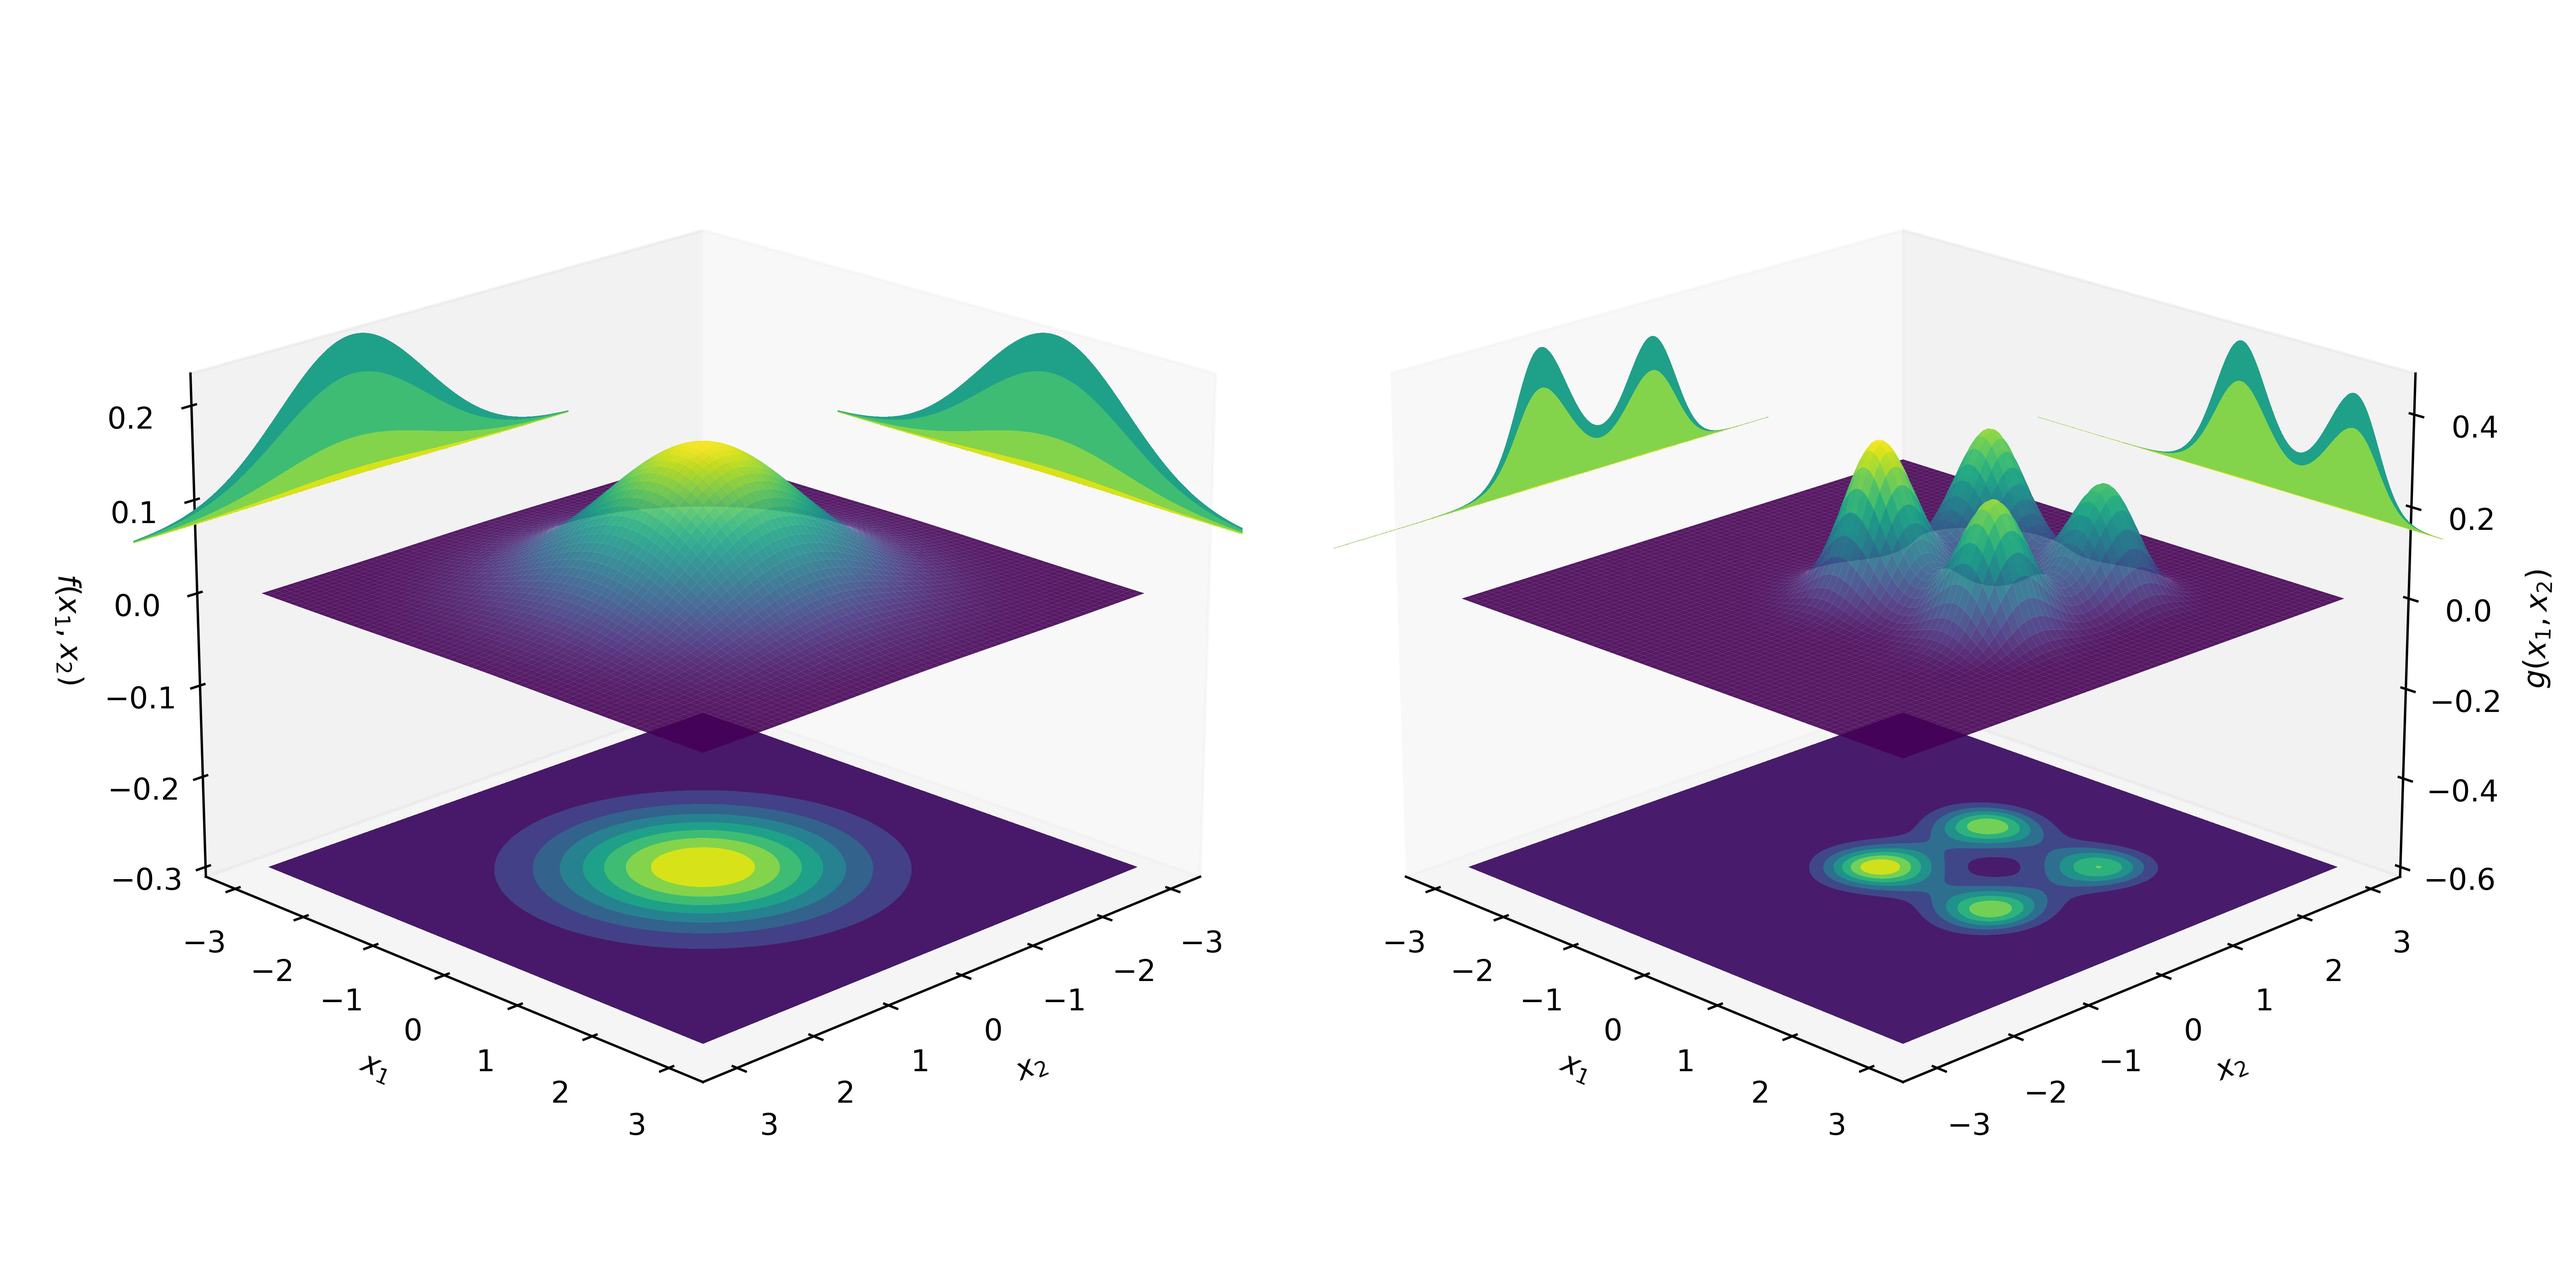
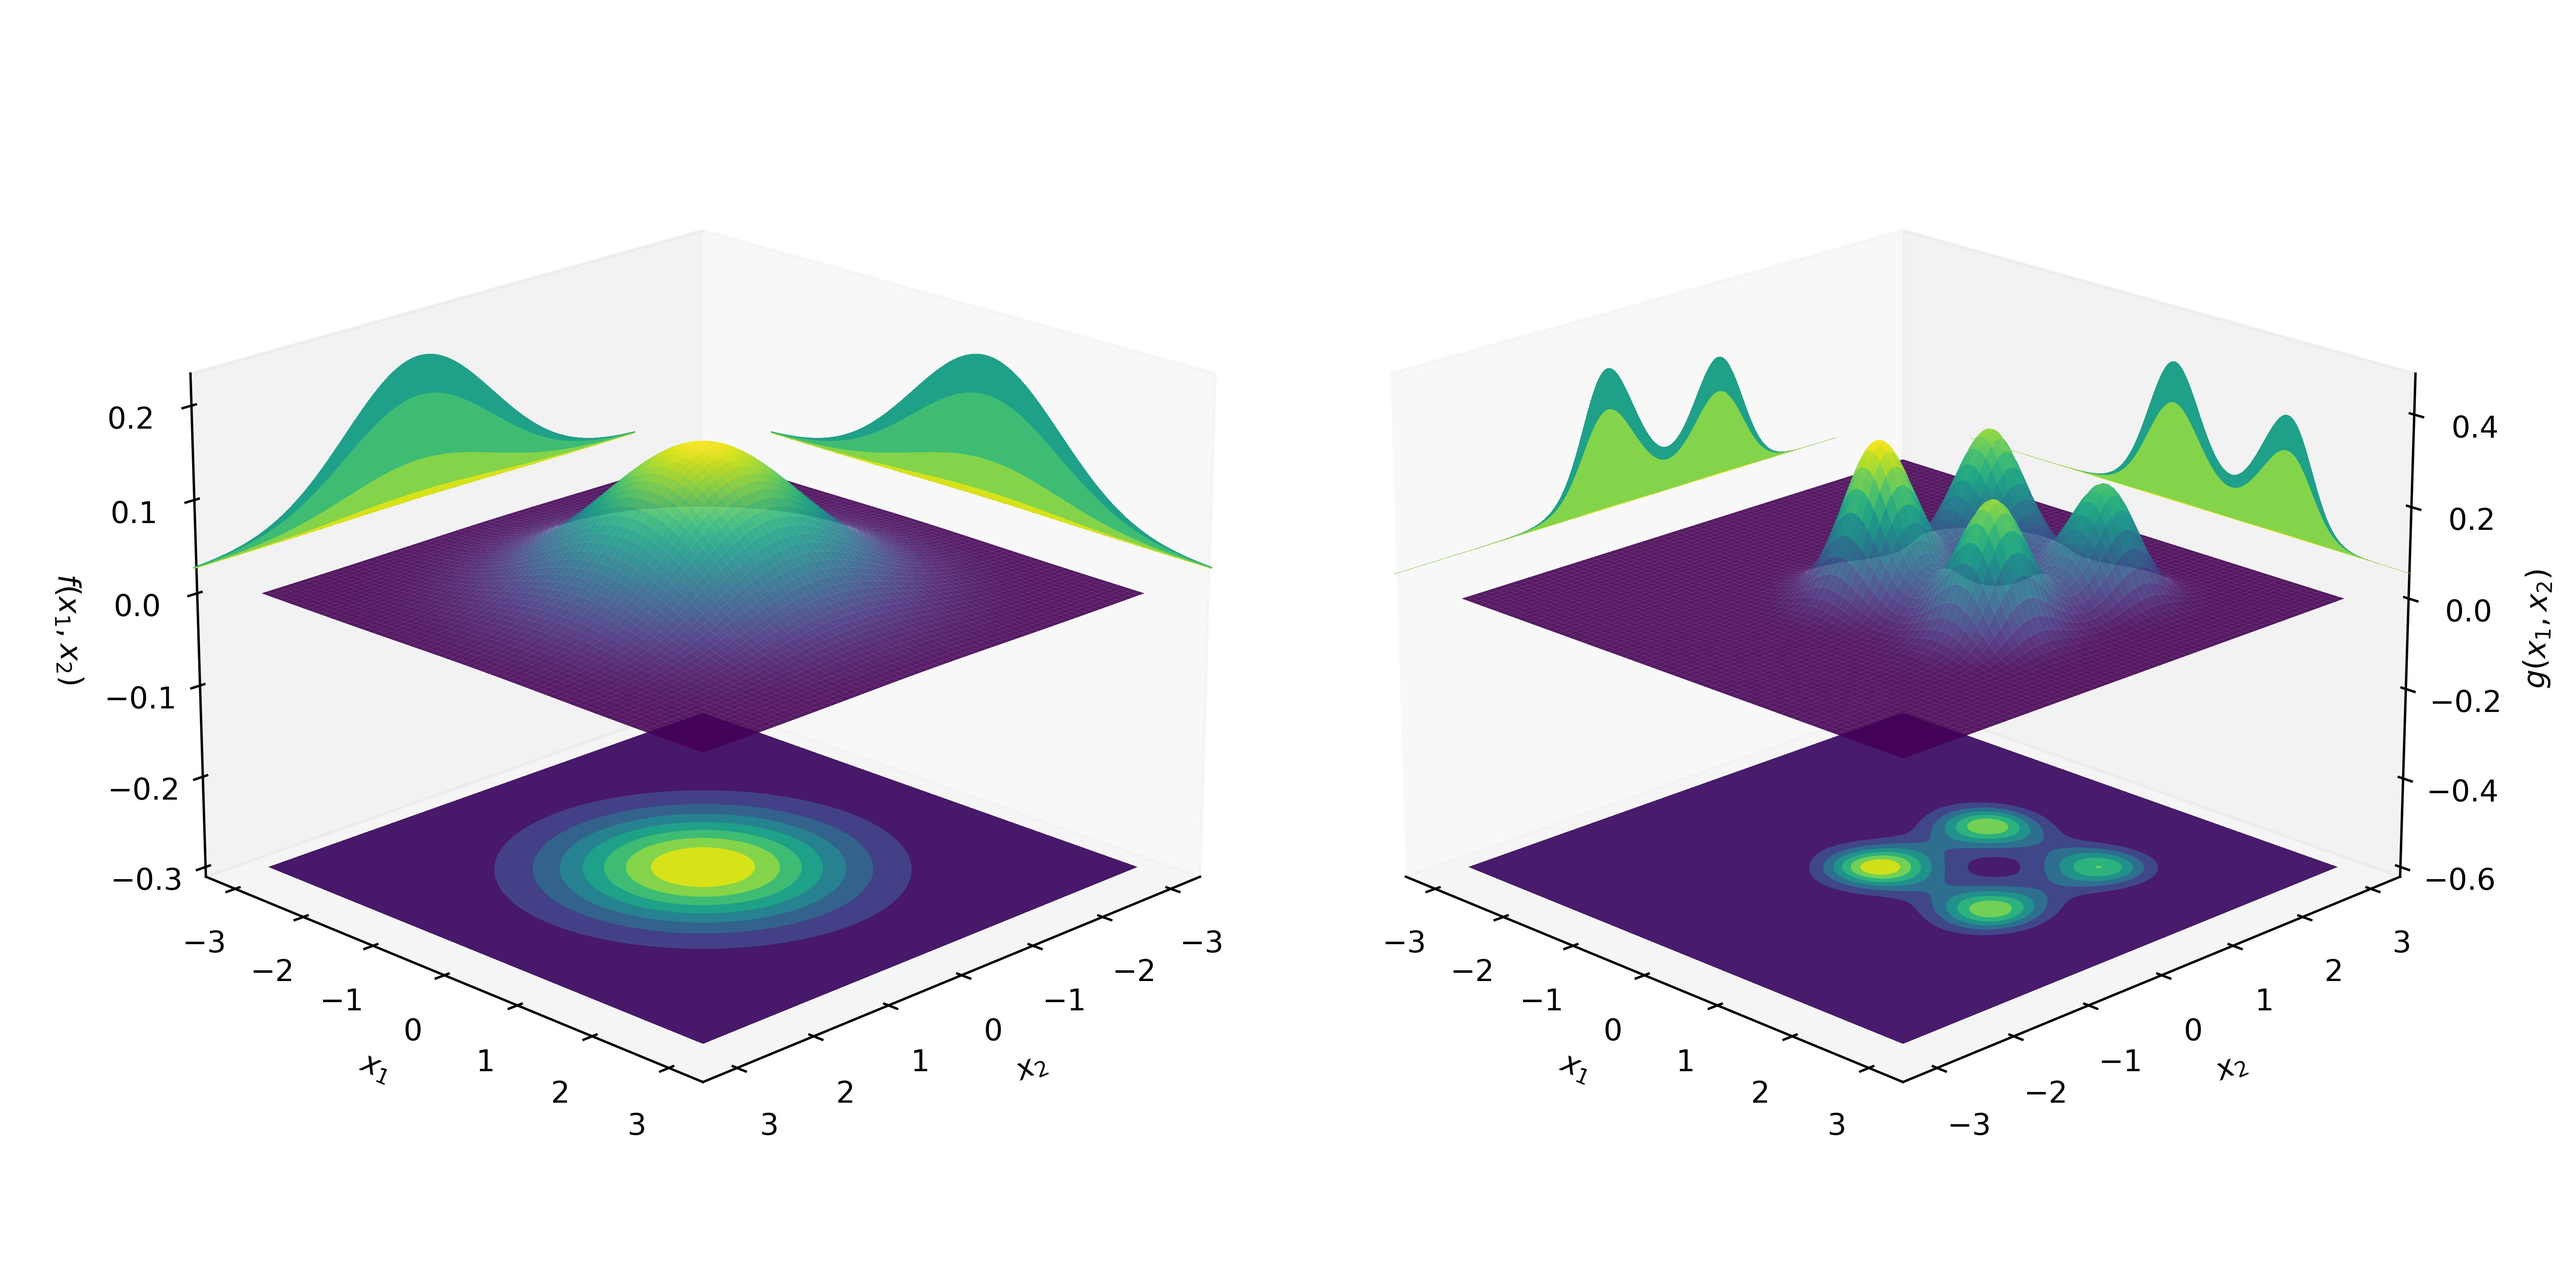
moved hist into grid

diff --git a/src/bflow.py b/src/bflow.py
@@ -146,8 +146,8 @@ fig = plt.figure(figsize=(12, 6))
 ax = fig.add_subplot(121, projection="3d")
 surf = ax.plot_surface(X1, X2, Y, rstride=8, cstride=8, alpha=0.9, cmap=cm)
 cset = ax.contourf(X1, X2, Y, zdir="z", offset=-0.3, cmap=cm)
-cset = ax.contourf(X1, X2, Y, zdir="x", offset=-5, cmap=cm)
-cset = ax.contourf(X1, X2, Y, zdir="y", offset=-5, cmap=cm)
+cset = ax.contourf(X1, X2, Y, zdir="x", offset=-4, cmap=cm)
+cset = ax.contourf(X1, X2, Y, zdir="y", offset=-4, cmap=cm)
 ax.set_zlim(-0.3, np.max(Y) * 1.4)
 ax.set_xlabel(r"$x_{2}$")
 ax.set_ylabel(r"$x_{1}$")
@@ -157,8 +157,8 @@ ax.grid(False)
 ax = fig.add_subplot(122, projection="3d")
 surf = ax.plot_surface(X1, X2, Z, rstride=8, cstride=8, alpha=0.9, cmap=cm)
 cset = ax.contourf(X1, X2, Z, zdir="z", offset=-0.6, cmap=cm)
-cset = ax.contourf(X1, X2, Z, zdir="x", offset=-5, cmap=cm)
-cset = ax.contourf(X1, X2, Z, zdir="y", offset=5, cmap=cm)
+cset = ax.contourf(X1, X2, Z, zdir="x", offset=-4, cmap=cm)
+cset = ax.contourf(X1, X2, Z, zdir="y", offset=4, cmap=cm)
 ax.set_zlim(-0.6, np.max(Z) * 1.35)
 ax.set_xlabel(r"$x_{1}$")
 ax.set_ylabel(r"$x_{2}$")
@@ -168,73 +168,4 @@ ax.view_init(elev=20, azim=-45)
 ax.grid(False)
 fig.tight_layout(pad=3, w_pad=0.1)
 plt.savefig("./plots/MVN_3D.jpg", dpi=600)
-
-# Rotaton Flow
-class Rotaton2D(distrax.Bijector):
-    def __init__(self, theta):
-        super().__init__(event_ndims_in=1, event_ndims_out=1)
-        self.thetas = theta
-        self.sin_theta = jnp.sin(theta)
-        self.cos_theta = jnp.cos(theta)
-        self.R = jnp.array(
-            [[self.cos_theta, -self.sin_theta], [self.sin_theta, self.cos_theta]]
-        ).T
-
-    def forward(self, x):
-        return jnp.matmul(x, self.R)
-
-    def inverse(self, x):
-        return jnp.matmul(x, self.R.T)
-
-    def forward_and_log_det(self, x):
-        y = self.forward(x)
-        logdet = 1
-        return y, logdet
-
-    def inverse_and_log_det(self, x):
-        y = self.inverse(x)
-        logdet = 1
-        return y, logdet
-
-
-mu = jnp.zeros(2)
-sigma = jnp.ones(2)
-dist_base = distrax.MultivariateNormalDiag(loc=mu, scale_diag=sigma)
-bij = Rotaton2D(theta=np.pi / 4)
-dist_transformed = distrax.Transformed(dist_base, bij)
-
-x1 = np.linspace(-3, 3, 600)
-x2 = np.linspace(-3, 3, 600)
-X1, X2 = np.meshgrid(x1, x2)
-X = np.stack([X1, X2], axis=-1)
-Y = np.exp(dist_base.log_prob(X))
-Z = np.exp(dist_transformed.log_prob(X))
-
-cm = plt.cm.get_cmap("viridis")
-fig = plt.figure(figsize=(12, 6))
-ax = fig.add_subplot(121, projection="3d")
-surf = ax.plot_surface(X1, X2, Y, rstride=8, cstride=8, alpha=0.9, cmap=cm)
-cset = ax.contourf(X1, X2, Y, zdir="z", offset=-0.3, cmap=cm)
-cset = ax.contourf(X1, X2, Y, zdir="x", offset=-5, cmap=cm)
-cset = ax.contourf(X1, X2, Y, zdir="y", offset=-5, cmap=cm)
-ax.set_zlim(-0.3, np.max(Y) * 1.4)
-ax.set_xlabel(r"$x_{2}$")
-ax.set_ylabel(r"$x_{1}$")
-ax.set_zlabel(r"$f(x_{1},x_{2})$")
-ax.view_init(elev=20, azim=45)
-ax.grid(False)
-ax = fig.add_subplot(122, projection="3d")
-surf = ax.plot_surface(X1, X2, Z, rstride=8, cstride=8, alpha=0.9, cmap=cm)
-cset = ax.contourf(X1, X2, Z, zdir="z", offset=-0.6, cmap=cm)
-cset = ax.contourf(X1, X2, Z, zdir="x", offset=-5, cmap=cm)
-cset = ax.contourf(X1, X2, Z, zdir="y", offset=5, cmap=cm)
-ax.set_zlim(-0.6, np.max(Z) * 1.35)
-ax.set_xlabel(r"$x_{1}$")
-ax.set_ylabel(r"$x_{2}$")
-ax.set_zlabel(r"$g(x_{1},x_{2})$")
-
-ax.view_init(elev=20, azim=-45)
-ax.grid(False)
-fig.tight_layout(pad=3, w_pad=0.1)
-plt.show()
-plt.savefig("./plots/MVN_3D_rotation.jpg", dpi=600)
+plt.close()

diff --git a/src/rotation_flow.py b/src/rotation_flow.py
@@ -70,13 +70,13 @@ X = np.stack([X1, X2], axis=-1)
 Y = np.exp(dist_base.log_prob(X))
 Z = np.exp(dist_transformed.log_prob(X))
 
-cm = plt.cm.get_cmap("viridis")
+cm = plt.cm.get_cmap("viridis")  # .reversed()
 fig = plt.figure(figsize=(12, 6))
 ax = fig.add_subplot(121, projection="3d")
 surf = ax.plot_surface(X1, X2, Y, rstride=8, cstride=8, alpha=0.9, cmap=cm)
 cset = ax.contourf(X1, X2, Y, zdir="z", offset=-0.3, cmap=cm)
-cset = ax.contourf(X1, X2, Y, zdir="x", offset=-5, cmap=cm)
-cset = ax.contourf(X1, X2, Y, zdir="y", offset=-5, cmap=cm)
+cset = ax.contourf(X1, X2, Y, zdir="x", offset=-4, cmap=cm)
+cset = ax.contourf(X1, X2, Y, zdir="y", offset=-4, cmap=cm)
 ax.set_zlim(-0.3, np.max(Y) * 1.4)
 ax.set_xlabel(r"$x_{2}$")
 ax.set_ylabel(r"$x_{1}$")
@@ -85,10 +85,10 @@ ax.view_init(elev=20, azim=45)
 ax.grid(False)
 ax = fig.add_subplot(122, projection="3d")
 surf = ax.plot_surface(X1, X2, Z, rstride=8, cstride=8, alpha=0.9, cmap=cm)
-cset = ax.contourf(X1, X2, Z, zdir="z", offset=-0.6, cmap=cm)
-cset = ax.contourf(X1, X2, Z, zdir="x", offset=-5, cmap=cm)
-cset = ax.contourf(X1, X2, Z, zdir="y", offset=5, cmap=cm)
-ax.set_zlim(-0.6, np.max(Z) * 1.35)
+cset = ax.contourf(X1, X2, Z, zdir="z", offset=-0.3, cmap=cm)
+cset = ax.contourf(X1, X2, Z, zdir="x", offset=-4, cmap=cm)
+cset = ax.contourf(X1, X2, Z, zdir="y", offset=4.5, cmap=cm)
+ax.set_zlim(-0.3, np.max(Z) * 1.35)
 ax.set_xlabel(r"$x_{1}$")
 ax.set_ylabel(r"$x_{2}$")
 ax.set_zlabel(r"$g(x_{1},x_{2})$")
